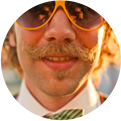
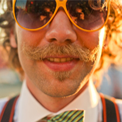
edit mobile version

diff --git a/css/style.css b/css/style.css
@@ -11,7 +11,7 @@ html {
 img {
   display: block;
   margin: auto;
-  /* width: 100%; */
+  max-width: 100%;
   height: auto;
 }
 
@@ -66,13 +66,13 @@ button {
 /* HEADER-PROMO */
 
 .promo {
-  background: #1a1915 url(../img/bg-img/Promo-pic-320x540.png) no-repeat;
+  background: #1a1915 url(../img/bg-img/Promo-pic-320x540.png) center no-repeat;
   background-size: cover;
   text-align: center;
 }
 
 .wrapper-logo-registration {
-  padding: 20px 0 34px;
+  padding: 20px 0 28px;
 }
 
 .registration {
@@ -84,7 +84,7 @@ button {
   font-size: 14px;
   line-height: 1.2;
   color: var(--promo-color-text);
-  margin-bottom: 122px;
+  margin-bottom: 110px;
 }
 
 .registration:focus {
@@ -118,7 +118,7 @@ button {
   font-weight: 300;
   color: var(--promo-color-text);
   line-height: 1.2;
-  margin-bottom: 16px;
+  margin-bottom: 18px;
 }
 
 .promo-description span {
@@ -126,7 +126,7 @@ button {
 }
 
 .wrapper-link-find-partner {
-  padding-bottom: 128px;
+  padding-bottom: 133px;
 }
 
 .link-find-partner {
@@ -162,13 +162,50 @@ button {
   margin: 64px 0 14px;
 }
 
-.partner-list {
+.partner-list-item {
   margin: 0 auto;
   width: 220px;
 }
 
 .box-photo-partner {
-  margin-bottom: 20px;
+  width: 120px;
+  position: relative;
+  margin: 0 auto 20px;
+}
+
+.box-photo-partner img {
+  border-radius: 50%;
+}
+
+.box-photo-partner::after {
+  content: "";
+  width: 37px;
+  height: 37px;
+  border: 4px solid #ffffff;
+  border-radius: 50%;
+  position: absolute;
+  right: 0;
+  bottom: 0;
+}
+
+.box-photo-partner-first::after {
+  content: "";
+  background: #ff4e50 url(../img/icon/tv.png) center no-repeat;
+}
+
+.box-photo-partner-second::after {
+  content: "";
+  background: #ffa507 url(../img/icon/colb.png) center no-repeat;
+}
+
+.box-photo-partner-third::after {
+  content: "";
+  background: #1cd7ad url(../img/icon/cap.png) center no-repeat;
+}
+
+.box-photo-partner-fourth::after {
+  content: "";
+  background: #4e73db url(../img/icon/telegram.png) center no-repeat;
 }
 
 .partner-name {

diff --git a/index.html b/index.html
@@ -28,7 +28,7 @@
       </h2>
       <ul class="partner-list">
         <li class="partner-list-item">
-          <div class="box-photo-partner">
+          <div class="box-photo-partner box-photo-partner-first">
             <img
               src="./img/partner/Partner1.png"
               alt="partners"
@@ -42,7 +42,7 @@
           </p>
         </li>
         <li class="partner-list-item">
-          <div class="box-photo-partner">
+          <div class="box-photo-partner box-photo-partner-second">
             <img
               src="./img/partner/Partner2.png"
               alt="partners"
@@ -57,7 +57,7 @@
           </p>
         </li>
         <li class="partner-list-item">
-          <div class="box-photo-partner">
+          <div class="box-photo-partner box-photo-partner-third">
             <img
               src="./img/partner/Partner3.png"
               alt="partners"
@@ -71,7 +71,7 @@
           </p>
         </li>
         <li class="partner-list-item">
-          <div class="box-photo-partner">
+          <div class="box-photo-partner box-photo-partner-fourth">
             <img
               src="./img/partner/Partner4.png"
               alt="partners"
